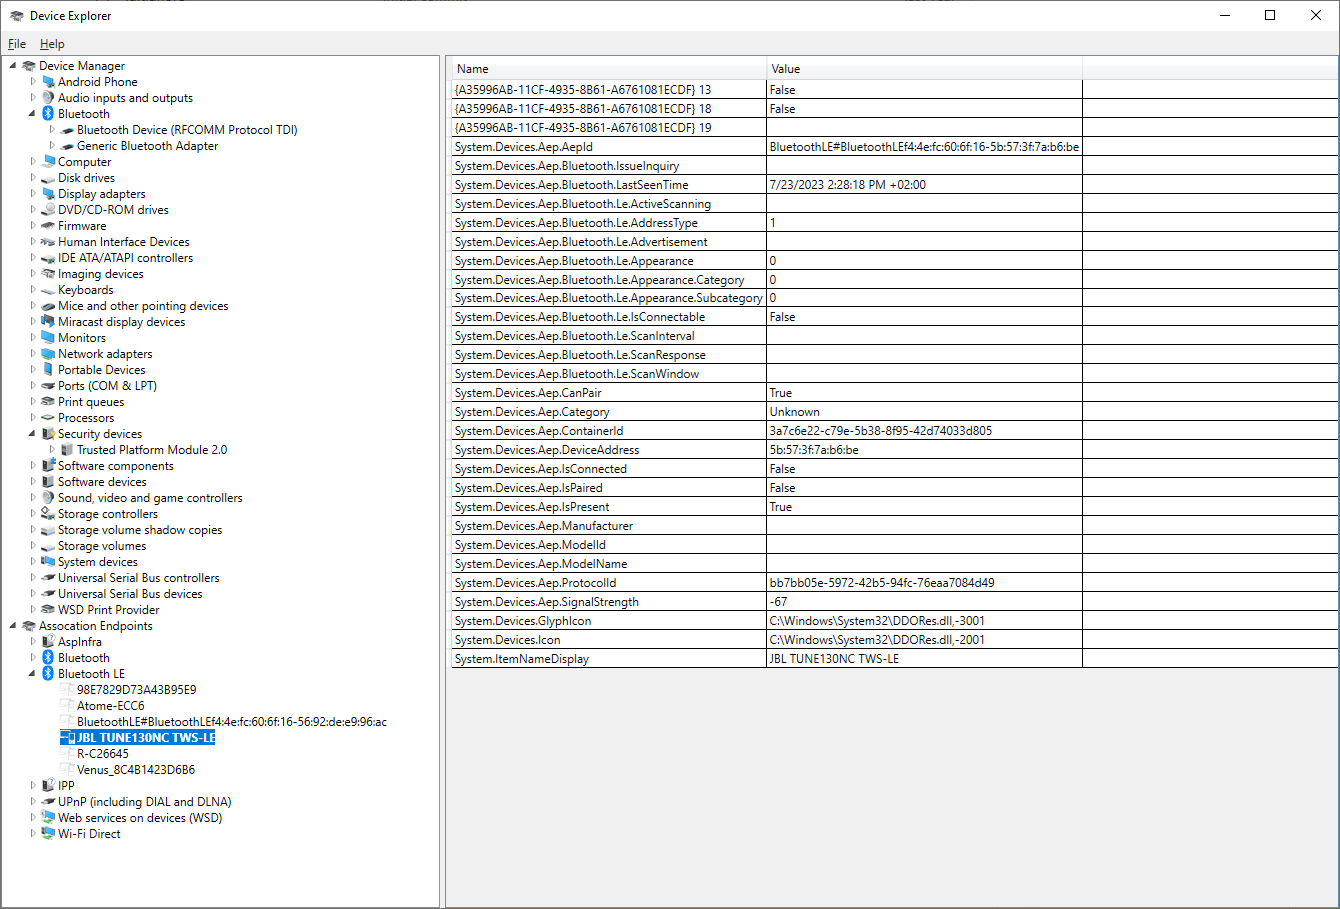
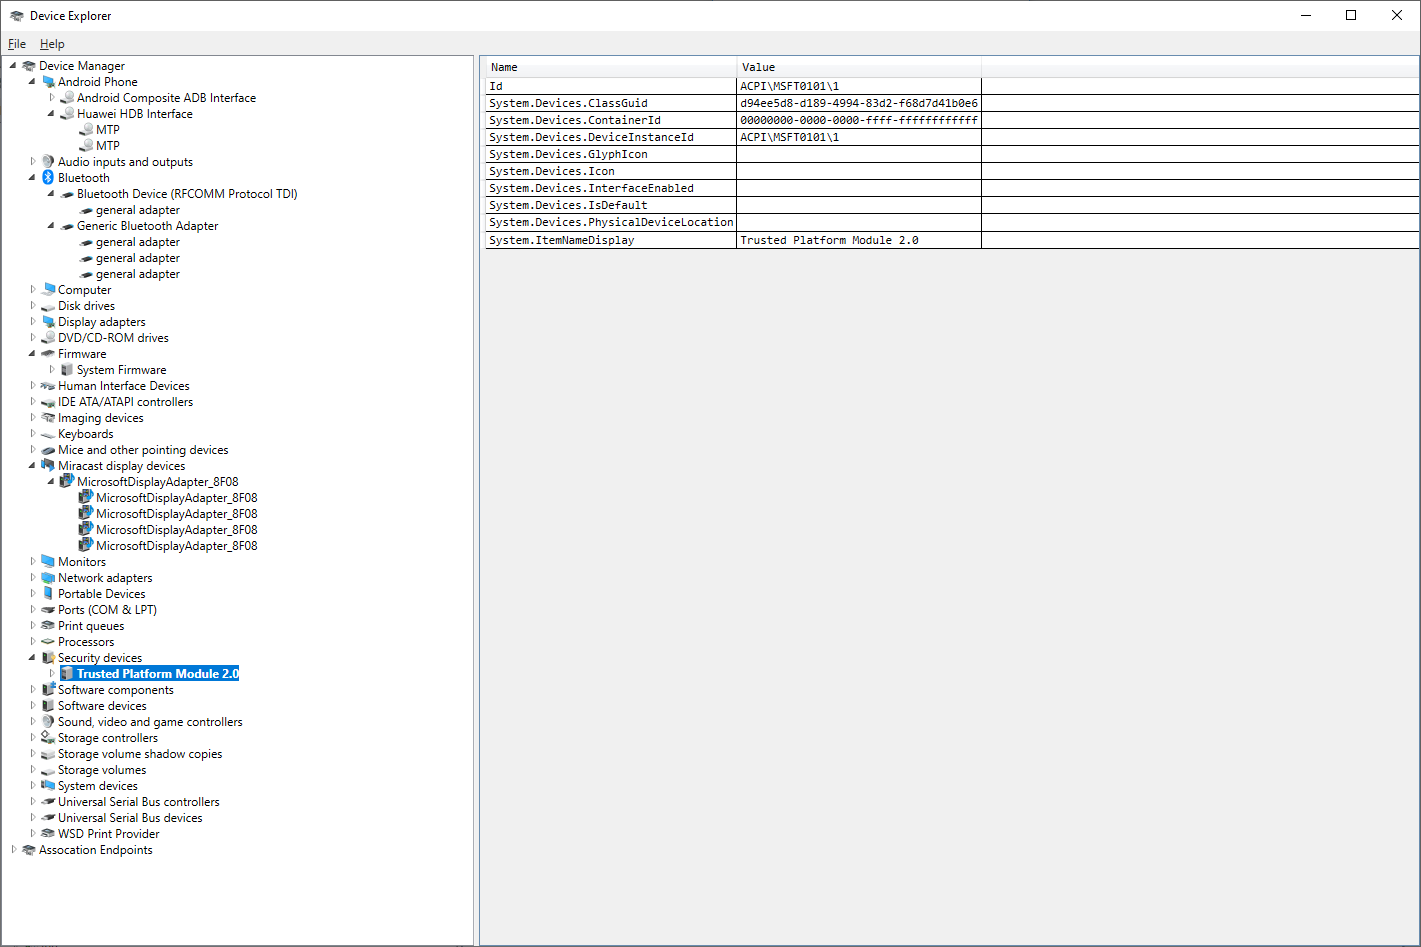
Updated readme & images.

diff --git a/README.md b/README.md
@@ -1,8 +1,14 @@
 # DeviceExplorer
-A tool that displays the hardware attached to a Windows computer, similar to Windows' Device Manager.
-
-It also shows Association EndPoints dynamically (bluetooth endpoints, etc.)
+A tool that displays the hardware attached to a Windows computer, similar to Windows' Device Manager:
 
 ![Device Explorer](Images/DeviceExplorer.png?raw=true)
 
-Written with C#, using WinRT's `Windows.Devices.Enumeration` Namespace.
+It also shows Association EndPoints dynamically (bluetooth endpoints,  UPnP, etc.):
+
+![Device Explorer BLE](Images/DeviceExplorerBLE.png?raw=true)
+
+It also shows Bluetooth LE advertisements dynamically:
+
+![Device Explorer BLE Adds](Images/DeviceExplorerBLEAdds.png?raw=true)
+
+Written with C# WPF and .NET 6, using WinRT's `Windows.Devices.Enumeration` Namespace.
